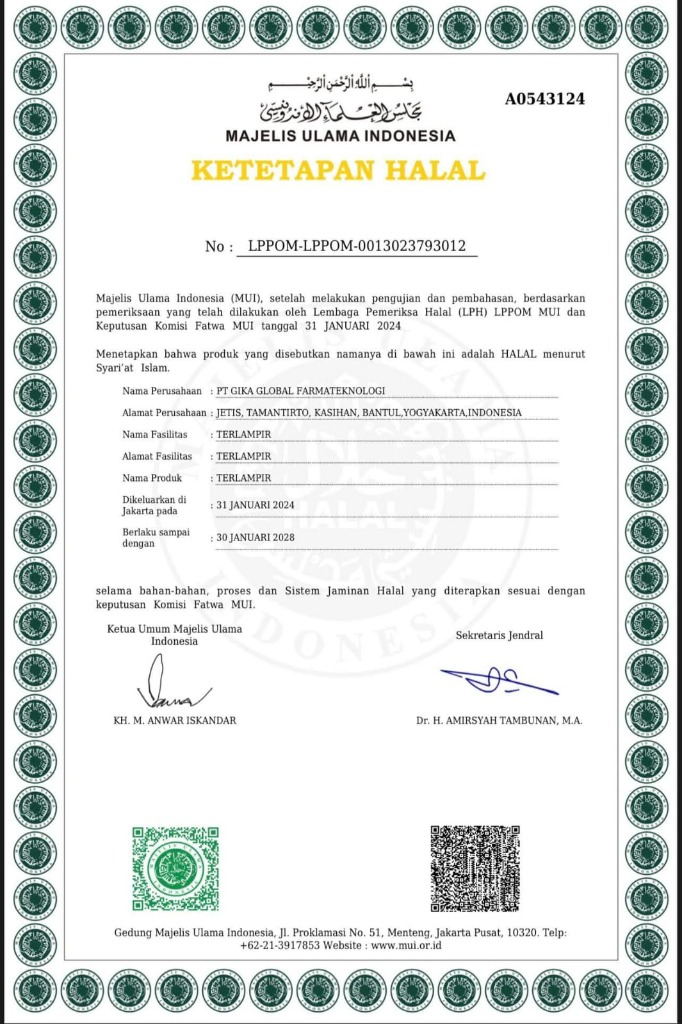
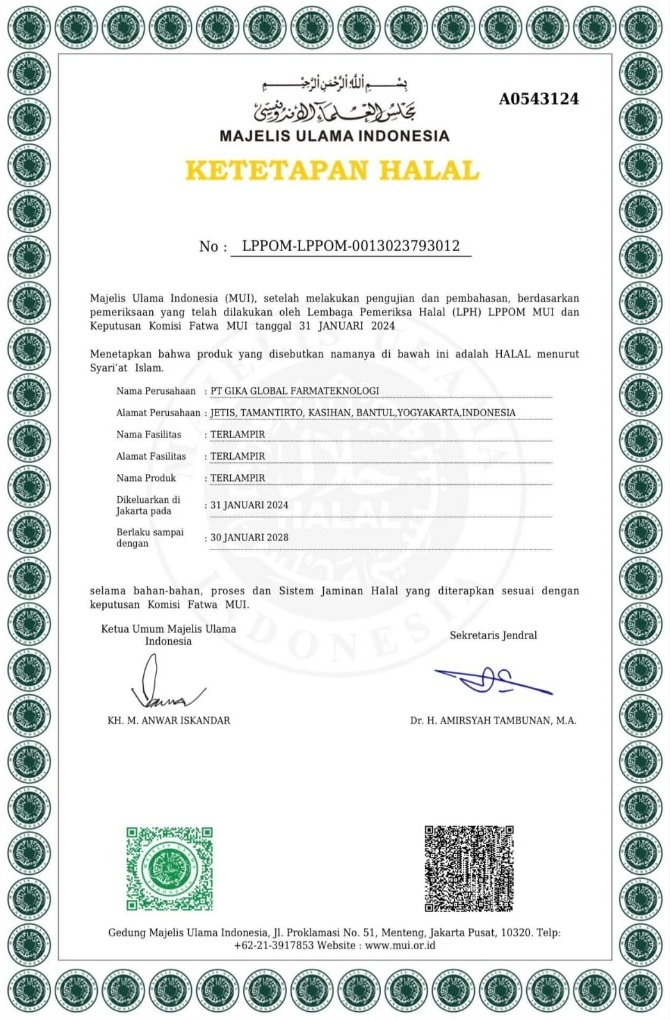
Polish: crop certificate document cleanly, remove empty space, and enhance certificate preview modal

diff --git a/src/components/hpu/Certificates.tsx b/src/components/hpu/Certificates.tsx
@@ -7,7 +7,8 @@ import {
   CheckCircle2, 
   ZoomIn, 
   X, 
-  ExternalLink
+  ExternalLink,
+  FileCheck
 } from "lucide-react";
 
 interface CertificateDoc {
@@ -20,6 +21,7 @@ interface CertificateDoc {
   description: string;
   image: string;
   colorScheme: "emerald" | "blue";
+  aspect: "portrait" | "landscape";
 }
 
 const certificateList: CertificateDoc[] = [
@@ -30,20 +32,22 @@ const certificateList: CertificateDoc[] = [
     docNumber: "No. LPPOM-LPPOM-0013023793012",
     validity: "Berlaku s/d 30 Januari 2028",
     badge: "HALAL RESMI",
-    description: "Ketetapan Halal resmi dari MUI berdasarkan pengujian Lembaga Pemeriksa Halal (LPH) LPPOM MUI.",
+    description: "Ketetapan Halal resmi dari MUI berdasarkan hasil audit dan pengujian Lembaga Pemeriksa Halal (LPH) LPPOM MUI.",
     image: "/certificates/sertifikat-halal-mui.jpg",
     colorScheme: "emerald",
+    aspect: "portrait",
   },
   {
     id: "bpom-ri",
     title: "Izin Edar Resmi BPOM",
     institution: "Badan Pengawas Obat dan Makanan (BPOM RI)",
-    docNumber: "Direktorat Registrasi Obat Tradisional & Suplemen",
-    validity: "Resmi Terdaftar",
+    docNumber: "Direktorat Registrasi Obat Tradisional (POM TR253007261)",
+    validity: "Resmi Terdaftar & Teruji Aman",
     badge: "BPOM RI",
-    description: "Salinan Surat Keputusan Izin Edar resmi dari Badan Pengawas Obat dan Makanan RI.",
+    description: "Salinan Surat Keputusan Izin Edar resmi dari Direktorat Registrasi Obat Tradisional, Suplemen Kesehatan dan Kosmetik BPOM RI.",
     image: "/certificates/izin-resmi-bpom.jpg",
     colorScheme: "blue",
+    aspect: "landscape",
   },
 ];
 
@@ -51,18 +55,20 @@ export function Certificates() {
   const [selectedDoc, setSelectedDoc] = useState<CertificateDoc | null>(null);
 
   return (
-    <section id="legalitas" className="py-14 sm:py-18 px-4 sm:px-6 bg-pink-50/40 border-b border-pink-100">
+    <section id="legalitas" className="py-14 sm:py-18 px-4 sm:px-6 bg-gradient-to-b from-pink-50/50 via-white to-pink-50/30 border-b border-pink-100">
       <div className="max-w-6xl mx-auto">
         {/* Section Header */}
         <div className="text-center max-w-2xl mx-auto mb-10">
-          <span className="text-xs font-bold tracking-wider text-pink-600 uppercase">
-            Sertifikasi Resmi
+          <span className="inline-flex items-center gap-1.5 text-xs font-bold tracking-wider text-pink-600 uppercase bg-pink-100/60 px-3 py-1 rounded-full border border-pink-200">
+            <ShieldCheck className="w-3.5 h-3.5 text-pink-600" />
+            Legalitas &amp; Sertifikasi Resmi
           </span>
-          <h2 className="text-2xl sm:text-3xl font-bold text-pink-700 tracking-tight mt-1">
-            Legalitas &amp; Sertifikat Resmi
+          <h2 className="text-2xl sm:text-3xl font-bold text-pink-800 tracking-tight mt-2.5">
+            Dokumen Resmi Keaslian Produk
           </h2>
-          <p className="text-pink-800 text-xs sm:text-sm mt-2 leading-relaxed">
-            Produk HPU telah memiliki izin edar resmi dari <strong>BPOM RI</strong> dan ketetapan <strong>Halal MUI</strong>.
+          <p className="text-pink-900/80 text-xs sm:text-sm mt-2 leading-relaxed">
+            HPU telah mengantongi izin edar resmi dari <strong>BPOM RI</strong> dan ketetapan <strong>Halal MUI</strong>. 
+            Konsumsi dengan rasa tenang dan percaya diri.
           </p>
         </div>
 
@@ -73,66 +79,85 @@ export function Certificates() {
             return (
               <div
                 key={doc.id}
-                className="bg-white rounded-2xl p-5 border border-pink-200 shadow-sm hover:shadow-md transition-shadow flex flex-col justify-between"
+                className="bg-white rounded-2xl p-5 border border-pink-200/90 shadow-sm hover:shadow-md transition-all duration-200 flex flex-col justify-between"
               >
                 <div>
-                  <div className="flex items-center justify-between mb-3">
+                  {/* Top Badge Header */}
+                  <div className="flex items-center justify-between mb-3.5">
                     <span
-                      className={`text-[11px] font-bold px-2.5 py-0.5 rounded-full border ${
+                      className={`text-[11px] font-bold px-2.5 py-0.5 rounded-full border flex items-center gap-1 ${
                         isEmerald
                           ? "bg-emerald-50 text-emerald-700 border-emerald-200"
                           : "bg-blue-50 text-blue-700 border-blue-200"
                       }`}
                     >
+                      <CheckCircle2 className="w-3 h-3" />
                       {doc.badge}
                     </span>
-                    <span className="text-[11px] text-pink-600 font-medium">
+                    <span className="text-[11px] text-pink-700 font-semibold flex items-center gap-1">
+                      <FileCheck className="w-3.5 h-3.5 text-pink-500" />
                       Dokumen Asli
                     </span>
                   </div>
 
-                  {/* Document Preview Box */}
+                  {/* Document Preview Box (Clean Paper Canvas) */}
                   <div
                     onClick={() => setSelectedDoc(doc)}
-                    className="relative w-full h-72 sm:h-80 rounded-xl overflow-hidden bg-slate-50 border border-slate-200 cursor-pointer shadow-inner mb-3 flex items-center justify-center group"
+                    role="button"
+                    tabIndex={0}
+                    onKeyDown={(e) => {
+                      if (e.key === "Enter" || e.key === " ") {
+                        e.preventDefault();
+                        setSelectedDoc(doc);
+                      }
+                    }}
+                    className="relative w-full h-72 sm:h-80 rounded-xl overflow-hidden bg-slate-100/80 border border-slate-200/90 cursor-pointer shadow-inner mb-4 flex items-center justify-center p-3 group transition-colors hover:bg-pink-50/40"
+                    title={`Klik untuk memperbesar ${doc.title}`}
                   >
-                    <Image
-                      src={doc.image}
-                      alt={doc.title}
-                      fill
-                      className="object-contain p-2 group-hover:scale-102 transition-transform duration-200"
-                      sizes="(max-width: 768px) 100vw, 420px"
-                    />
+                    {/* Paper Sheet Shadow Frame */}
+                    <div className="relative w-full h-full flex items-center justify-center">
+                      <div className="relative max-w-full max-h-full bg-white rounded-lg shadow-md ring-1 ring-slate-200 overflow-hidden flex items-center justify-center group-hover:shadow-lg group-hover:scale-[1.02] transition-all duration-200">
+                        <Image
+                          src={doc.image}
+                          alt={doc.title}
+                          width={doc.aspect === "landscape" ? 520 : 360}
+                          height={doc.aspect === "landscape" ? 375 : 540}
+                          className="w-auto h-auto max-h-64 sm:max-h-72 max-w-full object-contain"
+                          sizes="(max-width: 768px) 100vw, 420px"
+                        />
+                      </div>
+                    </div>
 
-                    {/* Simple Hover Zoom */}
-                    <div className="absolute inset-0 bg-black/30 opacity-0 group-hover:opacity-100 transition-opacity flex items-center justify-center">
-                      <span className="text-xs font-semibold text-white bg-black/60 px-3 py-1.5 rounded-full backdrop-blur-xs flex items-center gap-1.5">
+                    {/* Simple Hover Zoom Overlay */}
+                    <div className="absolute inset-0 bg-pink-900/20 backdrop-blur-[1px] opacity-0 group-hover:opacity-100 transition-opacity flex items-center justify-center">
+                      <span className="text-xs font-bold text-white bg-pink-600/90 hover:bg-pink-600 px-3.5 py-1.5 rounded-full shadow-md backdrop-blur-xs flex items-center gap-1.5 transition-transform group-hover:scale-105">
                         <ZoomIn className="w-4 h-4" />
-                        Klik untuk Perbesar
+                        Klik untuk Membaca Surat
                       </span>
                     </div>
                   </div>
 
-                  <h3 className="font-bold text-base text-pink-800 leading-snug mb-1">
+                  <h3 className="font-bold text-base text-pink-900 leading-snug mb-1">
                     {doc.title}
                   </h3>
-                  <p className="text-xs font-semibold text-pink-600 font-mono mb-1.5">
+                  <p className="text-xs font-semibold text-pink-600 font-mono mb-2">
                     {doc.docNumber}
                   </p>
-                  <p className="text-xs text-pink-900/80 leading-relaxed mb-3">
+                  <p className="text-xs text-pink-950/80 leading-relaxed mb-4">
                     {doc.description}
                   </p>
                 </div>
 
-                {/* Footer */}
+                {/* Card Footer */}
                 <div className="pt-3 border-t border-pink-100 flex items-center justify-between">
-                  <span className="text-[11px] text-pink-700 font-medium flex items-center gap-1">
-                    <CheckCircle2 className="w-3.5 h-3.5 text-emerald-600" />
+                  <span className="text-[11px] text-pink-800 font-medium flex items-center gap-1.5">
+                    <CheckCircle2 className="w-3.5 h-3.5 text-emerald-600 shrink-0" />
                     {doc.validity}
                   </span>
                   <button
+                    type="button"
                     onClick={() => setSelectedDoc(doc)}
-                    className="inline-flex items-center gap-1 text-xs font-bold text-pink-600 hover:text-pink-700 bg-pink-50 hover:bg-pink-100 px-3 py-1 rounded-full transition"
+                    className="inline-flex items-center gap-1.5 text-xs font-bold text-pink-600 hover:text-pink-700 bg-pink-50 hover:bg-pink-100 border border-pink-200 px-3 py-1.5 rounded-full transition"
                   >
                     Buka Surat
                     <ExternalLink className="w-3 h-3" />
@@ -144,59 +169,76 @@ export function Certificates() {
         </div>
       </div>
 
-      {/* Lightbox Modal */}
+      {/* Lightbox Modal (Clean Document Sheet Viewer) */}
       {selectedDoc && (
         <div
-          className="fixed inset-0 z-50 bg-black/80 backdrop-blur-xs flex items-center justify-center p-3 sm:p-4"
+          className="fixed inset-0 z-50 bg-black/75 backdrop-blur-xs flex items-center justify-center p-3 sm:p-5"
           onClick={() => setSelectedDoc(null)}
+          role="dialog"
+          aria-modal="true"
         >
           <div
-            className="bg-white rounded-2xl max-w-xl w-full max-h-[92vh] flex flex-col overflow-hidden shadow-2xl relative"
+            className="bg-white rounded-2xl max-w-2xl w-full max-h-[92vh] flex flex-col overflow-hidden shadow-2xl relative border border-pink-100 animate-in fade-in zoom-in-95 duration-150"
             onClick={(e) => e.stopPropagation()}
           >
-            {/* Header */}
-            <div className="p-4 border-b border-pink-100 flex items-center justify-between bg-pink-50/50">
-              <div>
-                <h3 className="font-bold text-base text-pink-800 leading-snug">
-                  {selectedDoc.title}
-                </h3>
-                <p className="text-xs text-pink-600 font-mono">
-                  {selectedDoc.docNumber}
-                </p>
+            {/* Modal Header */}
+            <div className="px-4 py-3.5 sm:px-5 sm:py-4 border-b border-pink-100 flex items-center justify-between bg-white">
+              <div className="flex items-center gap-3">
+                <div
+                  className={`w-9 h-9 rounded-full flex items-center justify-center shrink-0 ${
+                    selectedDoc.colorScheme === "emerald"
+                      ? "bg-emerald-50 text-emerald-600 border border-emerald-200"
+                      : "bg-blue-50 text-blue-600 border border-blue-200"
+                  }`}
+                >
+                  <ShieldCheck className="w-5 h-5" />
+                </div>
+                <div>
+                  <h3 className="font-bold text-sm sm:text-base text-pink-900 leading-snug">
+                    {selectedDoc.title}
+                  </h3>
+                  <p className="text-[11px] sm:text-xs text-pink-600 font-mono">
+                    {selectedDoc.docNumber}
+                  </p>
+                </div>
               </div>
 
               <button
+                type="button"
                 onClick={() => setSelectedDoc(null)}
-                className="bg-white hover:bg-pink-100 text-pink-700 p-1.5 rounded-full border border-pink-200 transition"
-                aria-label="Tutup surat"
+                className="w-8 h-8 rounded-full bg-pink-50 hover:bg-pink-100 text-pink-700 border border-pink-200 flex items-center justify-center transition"
+                aria-label="Tutup pratinjau"
               >
                 <X className="w-4 h-4" />
               </button>
             </div>
 
-            {/* Document Image */}
-            <div className="relative w-full flex-1 min-h-[50vh] sm:min-h-[60vh] bg-slate-900 p-2 flex items-center justify-center">
-              <div className="relative w-full h-full min-h-[420px]">
+            {/* Document Viewer Canvas (Soft Paper Gray Background, NOT Harsh Black) */}
+            <div className="relative w-full flex-1 min-h-[50vh] max-h-[70vh] bg-slate-100/90 p-3 sm:p-6 overflow-y-auto flex items-center justify-center">
+              <div className="relative bg-white shadow-xl rounded-xl p-2 sm:p-4 border border-slate-200 max-w-full flex items-center justify-center">
                 <Image
                   src={selectedDoc.image}
                   alt={selectedDoc.title}
-                  fill
-                  className="object-contain"
+                  width={selectedDoc.aspect === "landscape" ? 650 : 520}
+                  height={selectedDoc.aspect === "landscape" ? 470 : 790}
+                  className="w-auto h-auto max-h-[58vh] max-w-full object-contain rounded"
                   priority
                 />
               </div>
             </div>
 
-            {/* Footer */}
-            <div className="p-3.5 bg-white border-t border-pink-100 flex items-center justify-between">
-              <span className="text-xs text-pink-900/80">
-                {selectedDoc.institution}
-              </span>
+            {/* Modal Footer */}
+            <div className="px-4 py-3 sm:px-5 sm:py-3.5 bg-white border-t border-slate-100 flex items-center justify-between">
+              <div className="flex items-center gap-1.5 text-xs text-slate-700 font-medium">
+                <CheckCircle2 className="w-4 h-4 text-emerald-600 shrink-0" />
+                <span>{selectedDoc.institution}</span>
+              </div>
               <button
+                type="button"
                 onClick={() => setSelectedDoc(null)}
-                className="px-4 py-1.5 text-xs font-semibold text-white bg-pink-500 hover:bg-pink-600 rounded-full transition"
+                className="px-4 sm:px-5 py-1.5 sm:py-2 text-xs font-semibold text-white bg-pink-600 hover:bg-pink-700 rounded-full transition shadow-sm"
               >
-                Tutup
+                Tutup Pratinjau
               </button>
             </div>
           </div>
